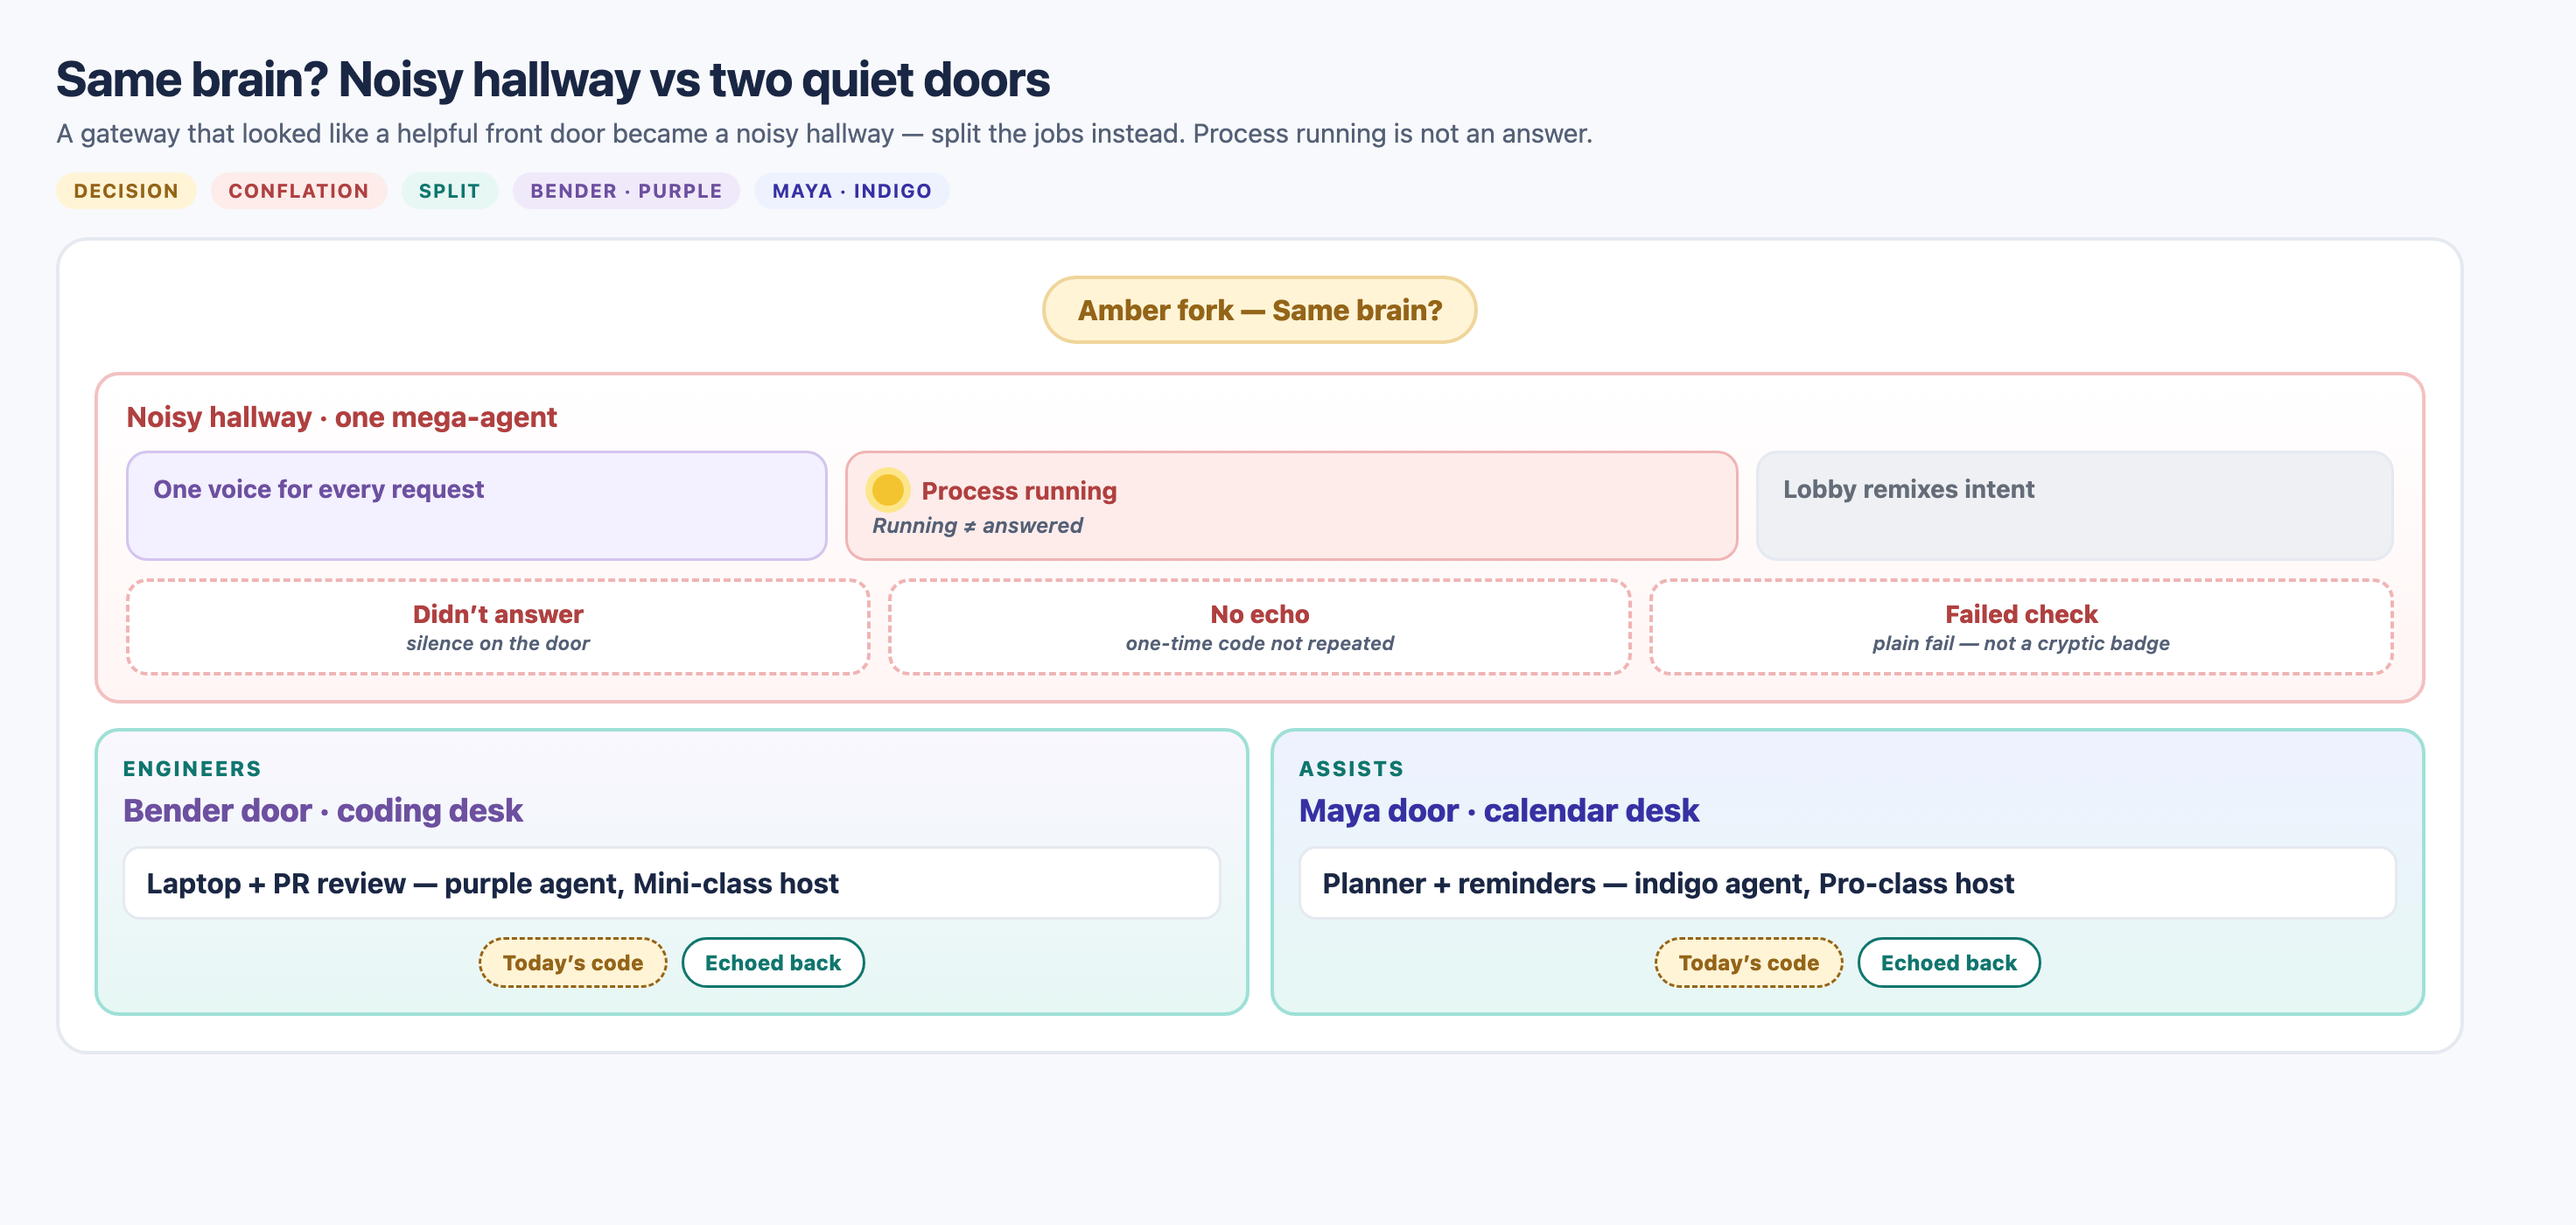
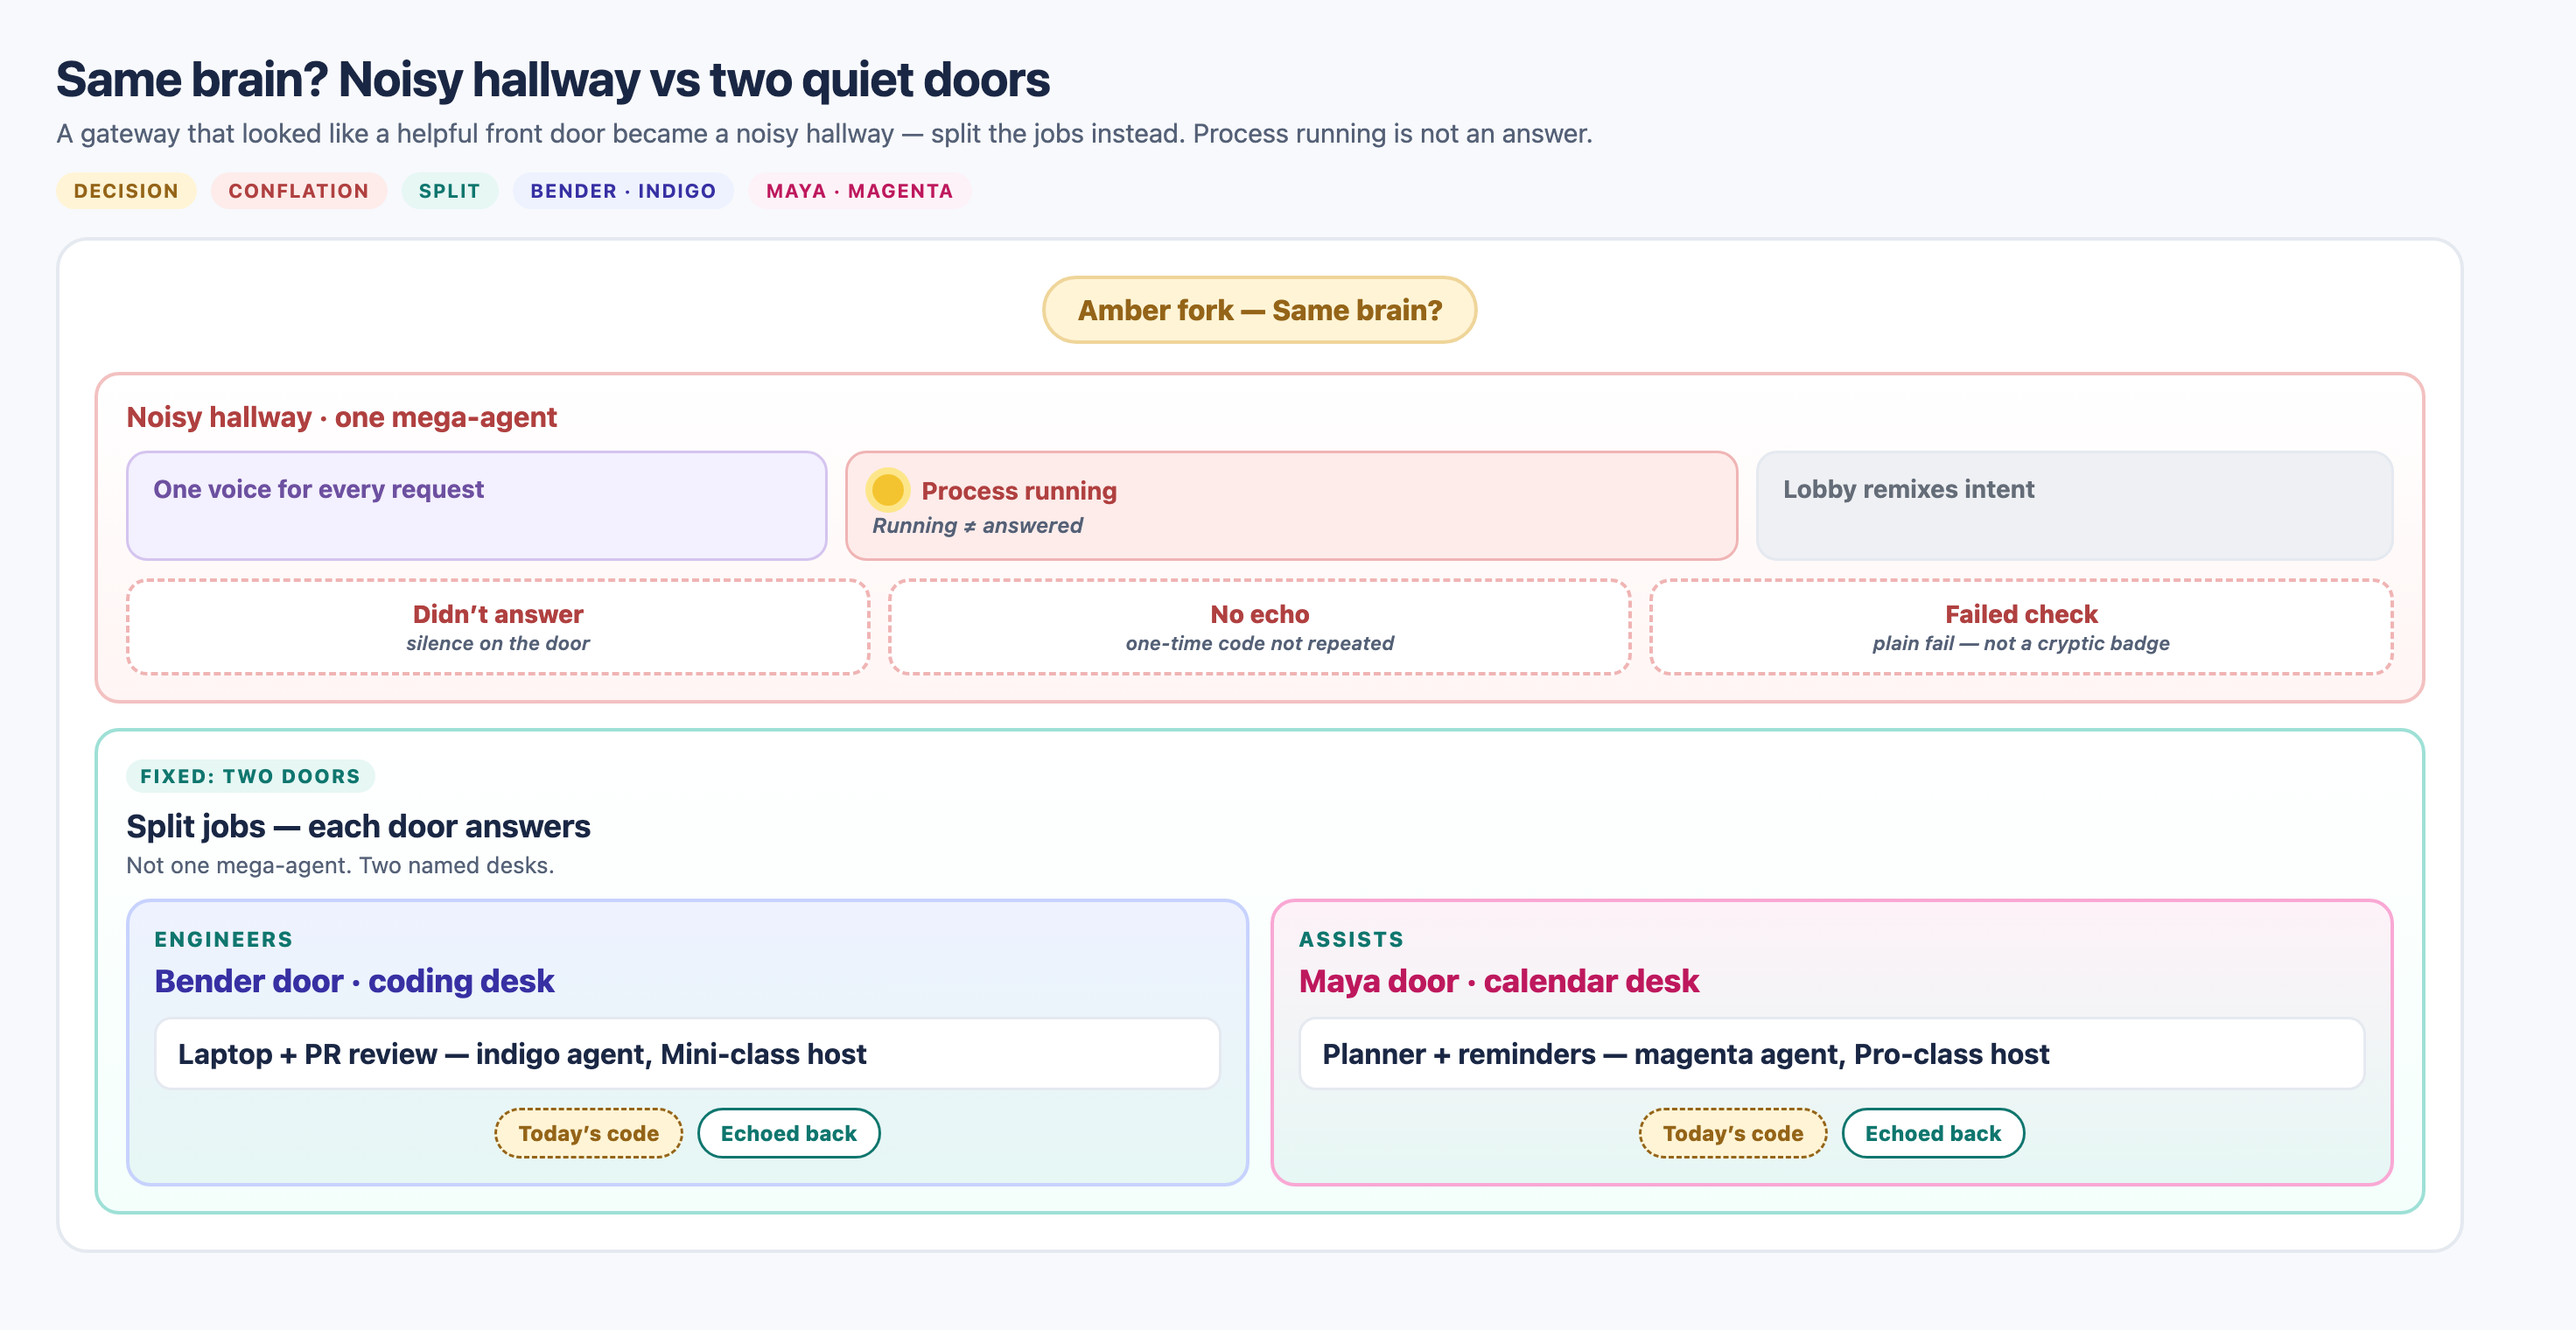
docs: land D2 Fixed two doors + indigo/magenta (#181)
D1 badge and D2 RHS: Fixed: two doors (split jobs, not a patch).
Bender indigo ≠ Maya magenta. draft=true.

Changed region(s): [[0.0312, 0.1843, 0.9375, 0.9214], [0.0, 0.0307, 0.625, 0.1843], [0.4688, 0.5836, 0.5, 0.6143]]

diff --git a/HANDOFF.md b/HANDOFF.md
@@ -1,24 +1,26 @@
 # Handoff
 
-**2026-09-21 — #181 draft still open. Blog REVIEW-FIX-NONCE-IMAGES landed. Do not merge.**
+**2026-09-21 — #181 draft still open. D2 Fix-label + indigo/magenta tip landed. Do not merge.**
 
 ## What this session did
 
 | Work | Notes |
 |------|-------|
-| Copy | Replaced `content/posts/two-brains-bender-maya.md` from Blog pack. Lede: **up** = process running / light on; **nonce** = one-time code (restaurant buzzer / secret-word-through-door). Glossary: **Nonce (one-time code)** + **“Up.”** Frontmatter description: “one-time check code.” `draft = true` unchanged. |
-| Visual | D1 `two-doors.png` HTML→PNG: laptop mega-agent, **Process running?**, Bender purple coding desk vs Maya indigo calendar desk, one-time code → echoed. D2 `decision.png`: **Process running** / *Running ≠ answered*; **Didn’t answer** / **No echo** / **Failed check**; tickets **Today’s code** / **Echoed back**. Cover C photoreal: two computer desks (laptop vs planner), two teal doors, stamp + blank ticket — no solder/EE. Unique cover not reused as body. |
+| Copy | D2 alt now names **Fixed: two doors**. Nonce ELI5 / “up” glossary unchanged. `draft = true` unchanged. |
+| Visual | D1 `two-doors.png`: badge **Fixed: two doors.**; indigo Bender coding desk ≠ magenta Maya assistant desk; computing desks, no EE. D2 `decision.png`: RHS panel **Fixed: two doors** / *Split jobs — each door answers*; false path still **Process running** / *Running ≠ answered*; tickets **Today’s code** / **Echoed back**. HTML→PNG, no Imagine. Cover unique, not reused. |
 | Preview | Reused hugo on `:1313` (`-D -F --bind 0.0.0.0`). Local `http://127.0.0.1:1313/posts/two-brains-bender-maya/` 200. Tailscale: `http://mini-pro.tail86a7c7.ts.net:1313/posts/two-brains-bender-maya/`. PNGs 200. |
 | Git | Pushed to `draft/two-brains-bender-maya` only. PR stays draft. Did not merge. |
 
 ## Local-only (not committed)
 
 - `_inbox/p12-nonce-img/` (Blog pack + review-fix brief)
+- `/tmp/two-brains-d1.html`, `/tmp/two-brains-d2.html` (HTML sources)
 
 ## Where to start next session
 
 1. Dave review of #181. Keep draft until he says ship.
-2. Do **not** set `draft = false` or merge unless asked.
+2. Optional leftover from add-on: D3/D5 agent blobs still same-purple (this tip was D1+D2 only).
+3. Do **not** set `draft = false` or merge unless asked.
 
 ## Do not
 

diff --git a/content/posts/two-brains-bender-maya.md b/content/posts/two-brains-bender-maya.md
@@ -20,7 +20,7 @@ The stealable pattern is not “buy a bigger model.” It is **two brains, two j
 
 If you get this wrong, you buy a mega-agent that is busy and still incoherent. Executives hear “we have agents.” Implementers inherit a single process that cannot fail closed on the right job, because nobody agreed which job it was.
 
-<!-- figure: primary — two actors, two doors, smoke nonce; blue human · purple Bender · purple Maya · teal verified · coral conflation · gray hosts -->
+<!-- figure: primary — two actors, two doors, smoke nonce; blue human · indigo Bender · magenta Maya · teal verified · coral conflation · gray hosts -->
 
 ## In brief
 
@@ -77,7 +77,7 @@ The cost of wrong is folklore with a friendly chat UI. Busy is not the same as o
 
 <!-- figure: decision — amber “same brain?” → coral mega-agent vs teal Bender/Maya doors + nonce chip -->
 
-![Decision poster: noisy hallway with process-running lamp versus two quiet doors with today's-code tickets](/images/posts/two-brains-bender-maya-decision.png)
+![Decision poster: noisy hallway with process-running lamp versus Fixed: two doors — Today's code tickets echoed back](/images/posts/two-brains-bender-maya-decision.png)
 
 ![Bender engineering desk and door beside Maya PA desk and door — teaching illustration, not a product UI](/images/posts/two-brains-bender-maya-two-surfaces.png)
 

diff --git a/history.md b/history.md
@@ -1,5 +1,6 @@
 # History
 
+- 2026-09-21: Draft PR #181 tip — D2 RHS **Fixed: two doors** / split jobs; D1 badge same; indigo Bender ≠ magenta Maya on D1+D2 HTML→PNG. Left `draft = true`. Did not merge.
 - 2026-09-21: Draft PR #181 REVIEW-FIX-NONCE-IMAGES — Blog pack nonce ELI5 + “up” glossary; D1 computing desks HTML→PNG; D2 Process running / fail plain / Today’s code; photoreal cover C no solder. Left `draft = true`. Did not merge.
 - 2026-09-21: Draft PR #181 REVIEW-FIX — Blog pack smoke/nonce copy; D5 two-surfaces Archify PNG; removed dashboards.png. Left `draft = true`. Did not merge.
 - 2026-09-21: Draft PR #181 — defined smoke/smokes on first use + glossary; Archify teaching two-doors diagram (`two-brains-bender-maya-dashboards.png`). No real Maya/Hermes screenshot. Left `draft = true`. Did not merge.
